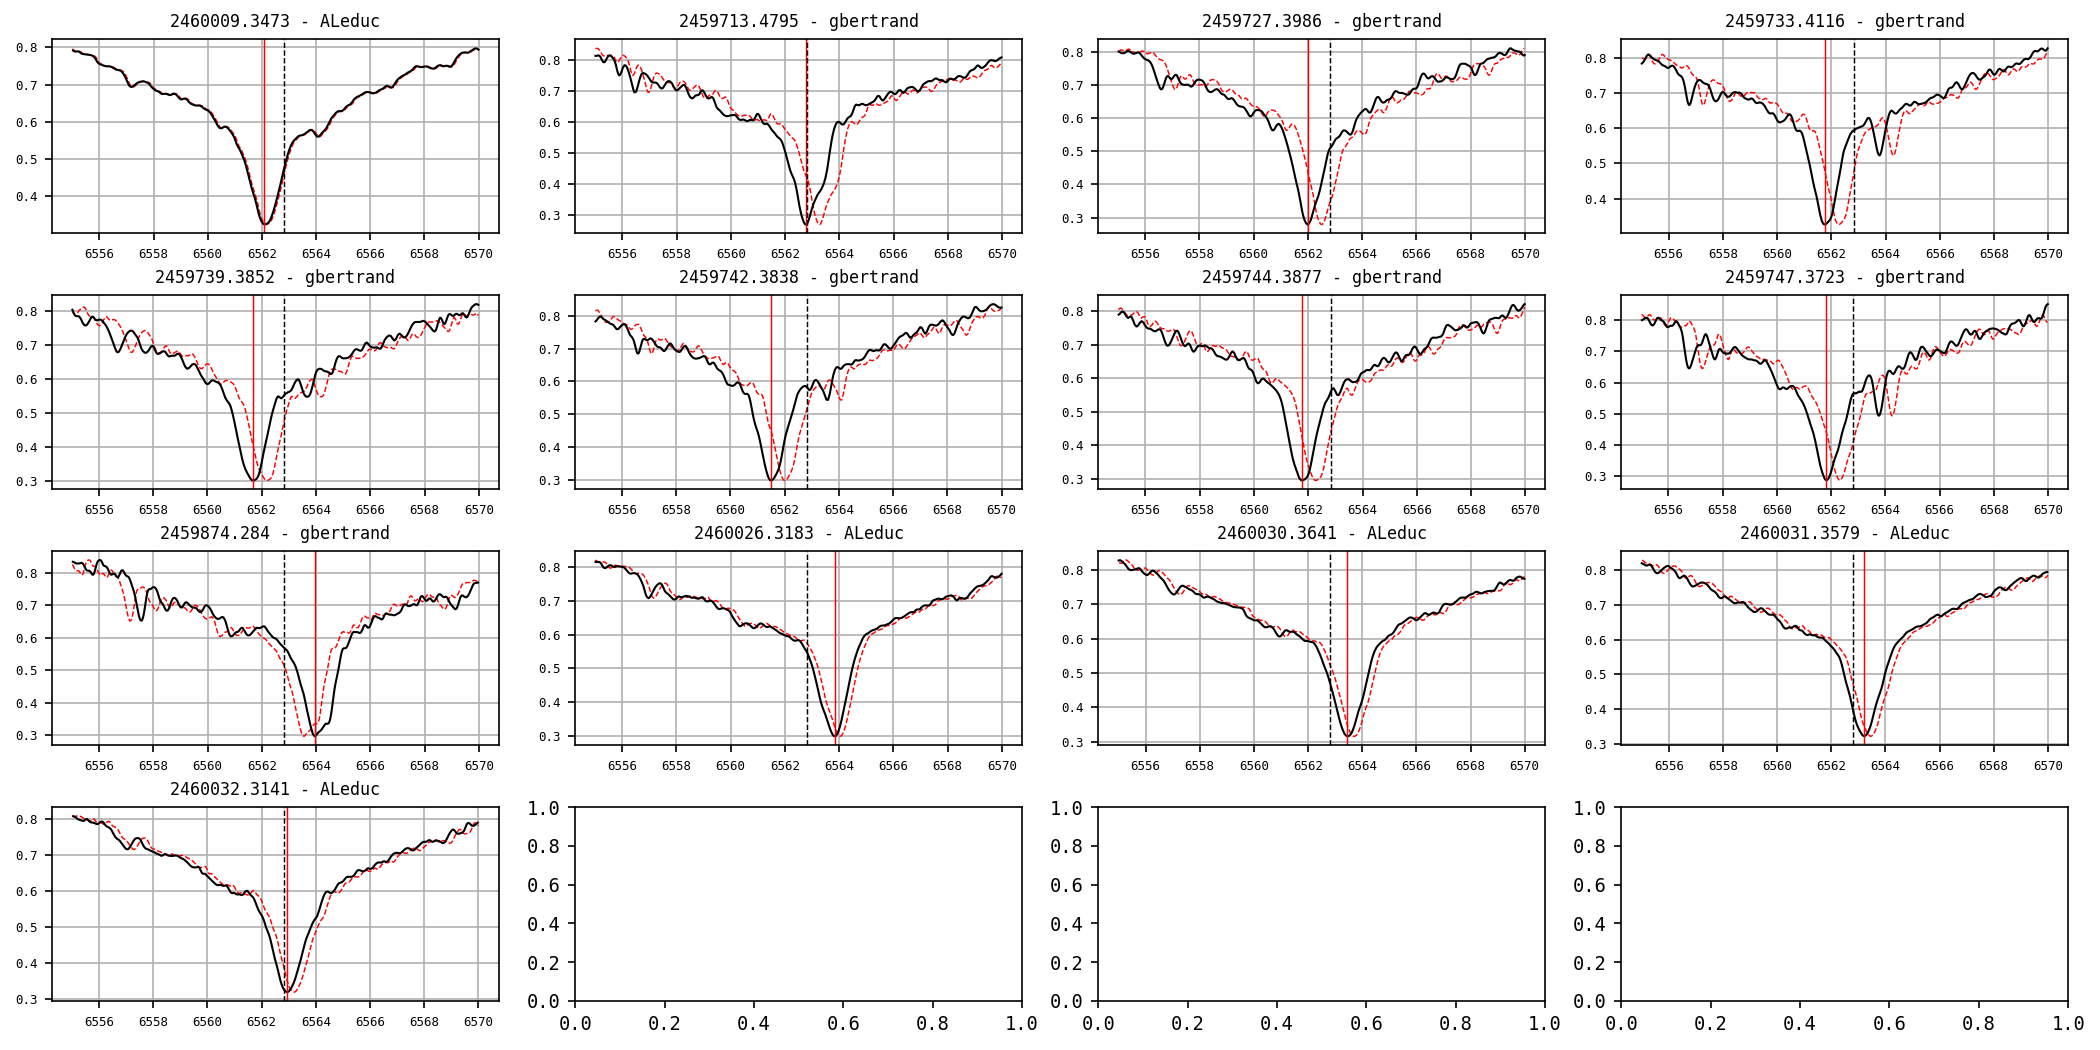
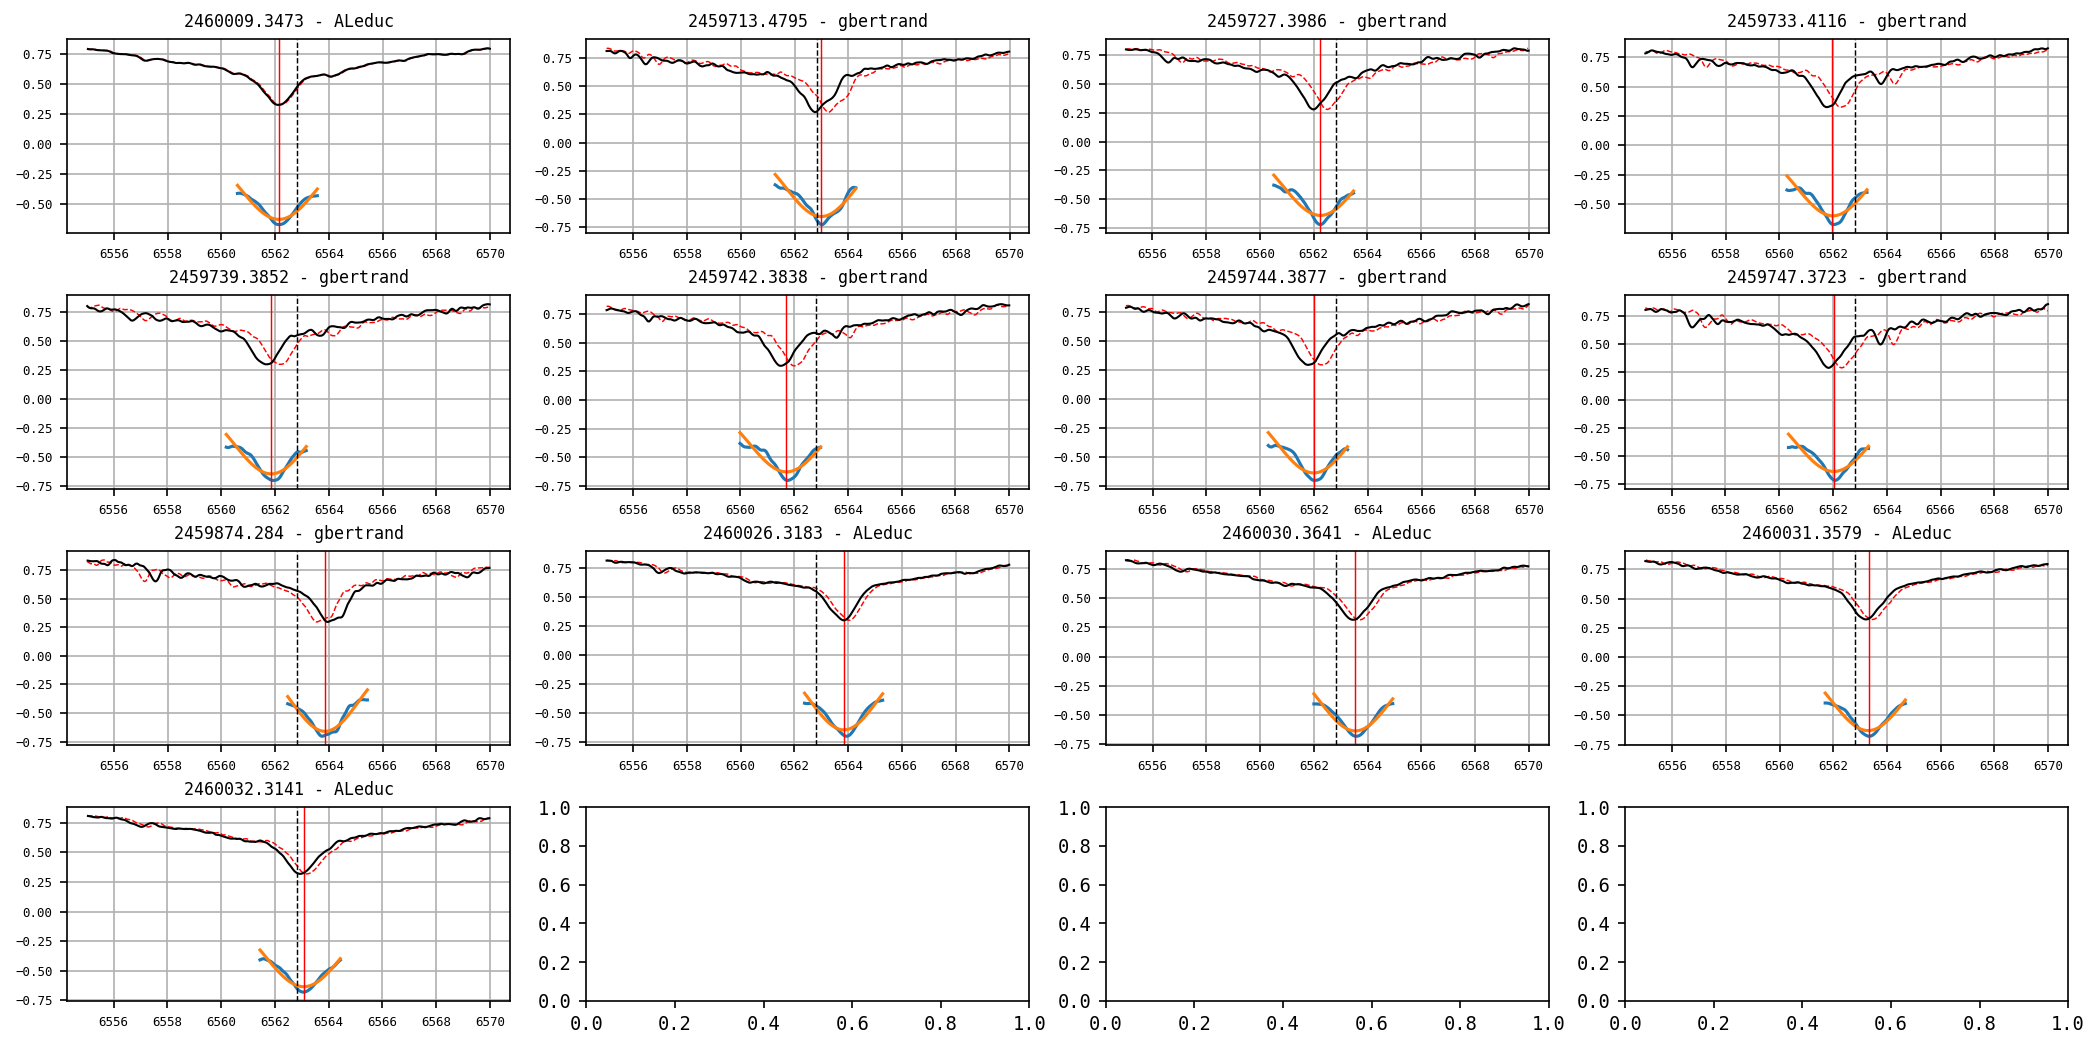
improve center of line estimation with Gaussian1D line fitting

diff --git a/bss.py b/bss.py
@@ -25,7 +25,7 @@ from astroquery.simbad import Simbad
 from specutils import Spectrum1D,SpectralRegion
 from specutils.manipulation import noise_region_uncertainty, extract_region
 from specutils.analysis import centroid
-from specutils.fitting import fit_lines
+from specutils.fitting import fit_lines, fit_generic_continuum
 
 # matplotlib
 import matplotlib.pyplot as plt
@@ -68,26 +68,26 @@ def extractObservations(specs, period = None):
         logging.info('      - Observation date : %s - %s'% (header['DATE-OBS'], header['JD-OBS']))
         rv = None
         if (sc):
+            ax = axs.flat[i]
             if('BSS_VHEL' in header and header['BSS_VHEL']):
                 rvc = None
             else:
                 rvc = radialVelocityCorrection(sc, header['JD-OBS'], header['GEO_LONG'], header['GEO_LAT'], header['GEO_ELEV'])
             logging.info('      - Radial velocity correction (%s) : %s '% (conf['radial_velocity_correction'],rvc))
-            center = findCenterOfLine(f, rvc)
+            center = findCenterOfLine(f, rvc, ax)
             rv = getRadialVelocity(center) 
             logging.info('      - Center of line : %s ± %s'% (center[0], center[1]))
             logging.info('      - Radial velocity : %s ± %s'% rv)
 
-            if(__debug_mode__):
-                ax = axs.flat[i]
-                ax.plot(center[2].spectral_axis.to(u.AA), center[2].flux , "r--", label="Original spectrum",lw=0.7)
-                ax.plot(center[3].spectral_axis.to(u.AA), center[3].flux, "k-", label="Shifted spectrum - %s correction" % conf['radial_velocity_correction'],lw=1)
-                ax.axvline(x=center[0].value, color='r', linestyle='-',lw=0.7)
-                ax.axvline(x=6562.82, color='k', linestyle='--',lw=0.7)
-                ax.set_title('%s - %s' % (header['JD-OBS'],header['OBSERVER']), fontsize="8")
-                ax.grid(True)
-                ax.tick_params(axis='both', which='major', labelsize=6)
-                ax.tick_params(axis='both', which='minor', labelsize=6)
+            
+            ax.plot(center[2].spectral_axis.to(u.AA), center[2].flux , "r--", label="Original spectrum",lw=0.7)
+            ax.plot(center[3].spectral_axis.to(u.AA), center[3].flux, "k-", label="Shifted spectrum - %s correction" % conf['radial_velocity_correction'],lw=1)
+        
+            ax.axvline(x=6562.82, color='k', linestyle='--',lw=0.7)
+            ax.set_title('%s - %s' % (header['JD-OBS'],header['OBSERVER']), fontsize="8")
+            ax.grid(True)
+            ax.tick_params(axis='both', which='major', labelsize=6)
+            ax.tick_params(axis='both', which='minor', labelsize=6)
         
 
         obs[float(header['JD-OBS'])] = {'fits':s, 'radial_velocity_corr':rvc, 'centroid': centroid, 'radial_velocity':rv, 'header':header }
@@ -128,7 +128,7 @@ def dopplerShift(s,vrad):
     return Spectrum1D(flux=flux, spectral_axis=wave_out)
 
 
-def findCenterOfLine(spectrum,radial_velocity_correction):
+def findCenterOfLine(spectrum,radial_velocity_correction,ax):
     specdata = spectrum[0].data
     header = spectrum[0].header
     with warnings.catch_warnings():  # Ignore warnings
@@ -145,18 +145,23 @@ def findCenterOfLine(spectrum,radial_velocity_correction):
         ipeak = s.flux.argmin()
         xpeak = s.spectral_axis[ipeak].to(u.AA)
 
-        # invert_s = Spectrum1D(flux=flux*-1+(1*u.Jy), wcs=wcs_data)
-        # g_init = models.Voigt1D(amplitude_L=.72*u.Jy, x_0=xpeak)
-        # g_fit = fit_lines(invert_s, g_init, window=(xpeak-(.4*u.AA), xpeak+(.4*u.AA)))
-        # y_fit = g_fit(invert_s.spectral_axis)
-        # ipeak = y_fit.argmax()
-        # xpeak = invert_s.spectral_axis[ipeak].to(u.AA)
+        invert_s = extract_region(Spectrum1D(flux=s.flux*-1+(1*u.Jy), wcs=wcs_data),SpectralRegion(xpeak-(1.5*u.AA), xpeak+(1.5*u.AA)))
 
-        # plt.plot(invert_s.spectral_axis, invert_s.flux)
-        # plt.plot(invert_s.spectral_axis, y_fit)
-        # plt.title('Single fit peak window')
-        # plt.grid(True)
-        # plt.show()
+        with warnings.catch_warnings():  # Ignore warnings
+            warnings.simplefilter('ignore')
+            g1_fit = fit_generic_continuum(invert_s)
+            y_continuum_fitted = g1_fit(invert_s.spectral_axis)
+            invert_s = Spectrum1D(flux=invert_s.flux / y_continuum_fitted*u.Jy -1*u.Jy, spectral_axis = invert_s.spectral_axis)
+
+        g_init = models.Gaussian1D(amplitude=invert_s.flux.argmax()*u.Jy-1*u.Jy, mean=xpeak, stddev=.2*u.AA)
+        g_fit = fit_lines(invert_s, g_init)
+        y_fit = g_fit(invert_s.spectral_axis) * -1
+        ipeak = y_fit.argmin()
+        xpeak = invert_s.spectral_axis[ipeak].to(u.AA)
+
+        ax.plot(invert_s.spectral_axis.to(u.AA), invert_s.flux*-1)
+        ax.plot(invert_s.spectral_axis.to(u.AA), y_fit)
+        ax.axvline(x=xpeak.value, color='r', linestyle='-',lw=0.7)
      
         region = SpectralRegion(6555*u.AA, 6570*u.AA)
  
